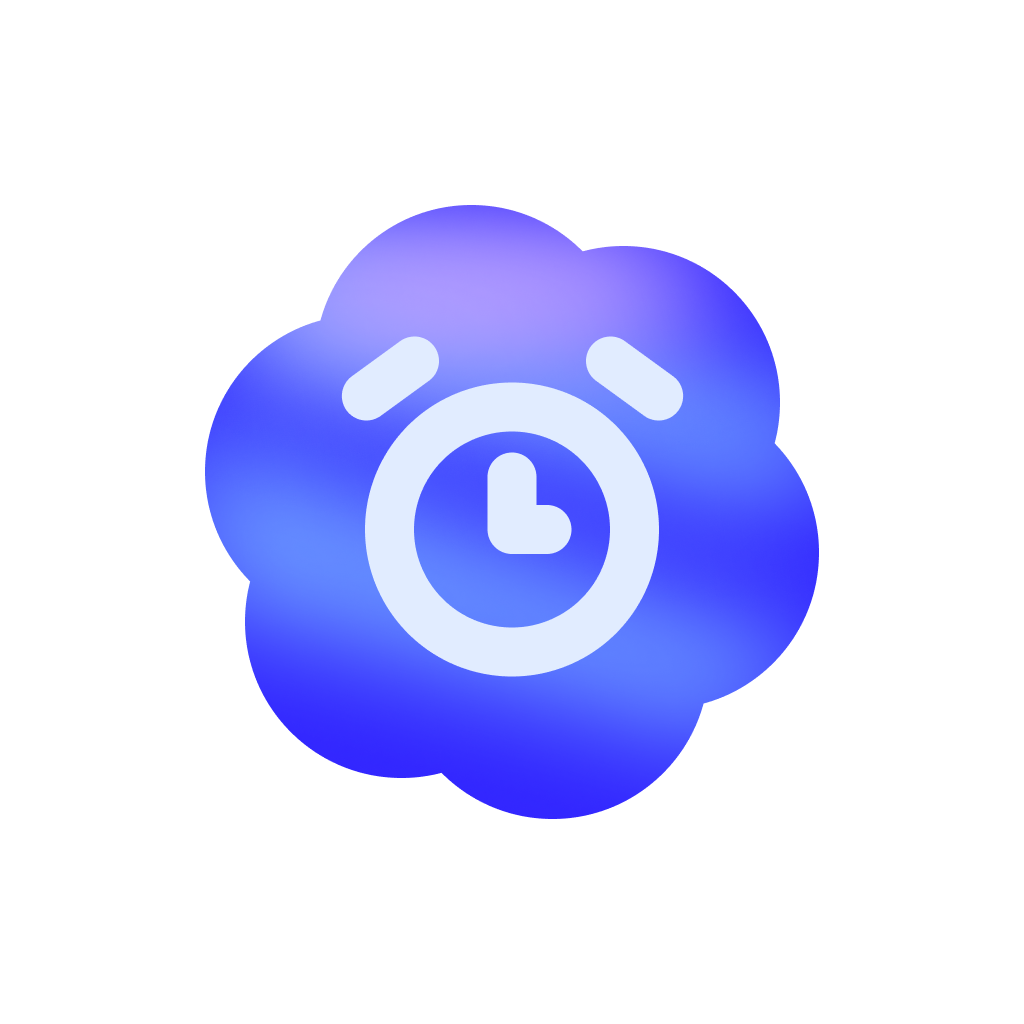
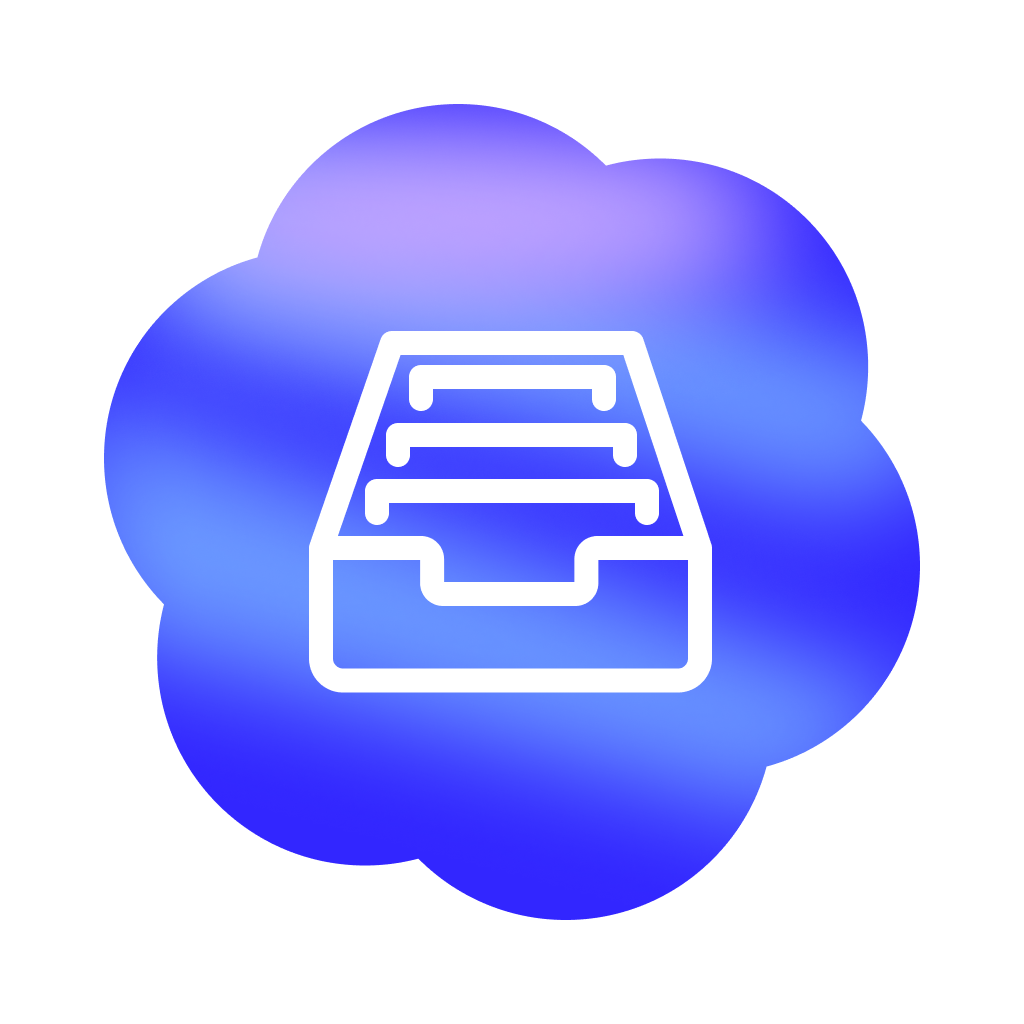
Rebrand app as Codex Keeper

diff --git a/Sources/CodexWake/Core/CodexStore.swift b/Sources/CodexWake/Core/CodexStore.swift
@@ -177,7 +177,7 @@ final class CodexStore: ThreadStore, @unchecked Sendable {
         guard source.path.hasPrefix(codexHome.standardizedFileURL.path + "/"),
               source.lastPathComponent.contains(".codex-rescue-backup-")
         else {
-            throw WakeError.commandFailed("Refusing to move non-Codex-Wake backup file")
+            throw WakeError.commandFailed("Refusing to move non-Codex Keeper backup file")
         }
 
         let sourceDirectory = source.deletingLastPathComponent()
@@ -200,7 +200,7 @@ final class CodexStore: ThreadStore, @unchecked Sendable {
         guard backupURL.path.hasPrefix(codexHome.standardizedFileURL.path + "/"),
               backupURL.lastPathComponent.contains(".codex-rescue-backup-")
         else {
-            throw WakeError.commandFailed("Refusing to restore non-Codex-Wake backup file.")
+            throw WakeError.commandFailed("Refusing to restore non-Codex Keeper backup file.")
         }
         guard fileManager.fileExists(atPath: backupURL.path) else {
             throw WakeError.commandFailed("Backup file no longer exists.")
@@ -576,7 +576,7 @@ final class CodexStore: ThreadStore, @unchecked Sendable {
     func restoreTrashedThread(_ thread: TrashedThread) throws {
         let manifestURL = URL(fileURLWithPath: thread.manifestPath).standardizedFileURL
         guard manifestURL.path.hasPrefix(threadTrash.standardizedFileURL.path + "/") else {
-            throw WakeError.commandFailed("Refusing to restore a chat outside Codex Wake trash.")
+            throw WakeError.commandFailed("Refusing to restore a chat outside Codex Keeper trash.")
         }
         let manifest = try JSONDecoder().decode(TrashedThreadManifest.self, from: Data(contentsOf: manifestURL))
         let originalURL = URL(fileURLWithPath: manifest.originalPath).standardizedFileURL
@@ -613,7 +613,7 @@ final class CodexStore: ThreadStore, @unchecked Sendable {
     func deleteTrashedThreadPermanently(_ thread: TrashedThread) throws {
         let manifestURL = URL(fileURLWithPath: thread.manifestPath).standardizedFileURL
         guard manifestURL.path.hasPrefix(threadTrash.standardizedFileURL.path + "/") else {
-            throw WakeError.commandFailed("Refusing to delete a file outside Codex Wake trash.")
+            throw WakeError.commandFailed("Refusing to delete a file outside Codex Keeper trash.")
         }
         try deleteTrashDirectory(containing: manifestURL)
     }
@@ -718,7 +718,7 @@ final class CodexStore: ThreadStore, @unchecked Sendable {
         if kind == .chatFile {
             return "Created before a chat change (legacy backup)"
         }
-        return "Created by Codex Wake"
+        return "Created by Codex Keeper"
     }
 
     private func isMainBackup(_ backup: BackupFile) -> Bool {
@@ -949,7 +949,7 @@ final class CodexStore: ThreadStore, @unchecked Sendable {
     private func deleteTrashDirectory(containing manifestURL: URL) throws {
         let directory = manifestURL.deletingLastPathComponent().standardizedFileURL
         guard directory.path.hasPrefix(threadTrash.standardizedFileURL.path + "/") else {
-            throw WakeError.commandFailed("Refusing to delete a file outside Codex Wake trash.")
+            throw WakeError.commandFailed("Refusing to delete a file outside Codex Keeper trash.")
         }
         try fileManager.removeItem(at: directory)
     }

diff --git a/Sources/CodexWake/UI/ProjectSidebarView.swift b/Sources/CodexWake/UI/ProjectSidebarView.swift
@@ -6,7 +6,7 @@ struct ProjectSidebarView: View {
     var body: some View {
         VStack(spacing: 0) {
             HStack(spacing: 8) {
-                Text("Codex Wake")
+                Text("Codex Keeper")
                     .font(.headline)
                 Spacer()
                 Button {
@@ -47,7 +47,7 @@ struct ProjectSidebarView: View {
                 .buttonStyle(.plain)
                 .padding(.horizontal, 8)
                 .padding(.vertical, 6)
-                .help("View Codex Wake backup files")
+                .help("View Codex Keeper backup files")
             }
 
             if model.trashItemCount > 0 {
@@ -66,7 +66,7 @@ struct ProjectSidebarView: View {
                 .buttonStyle(.plain)
                 .padding(.horizontal, 8)
                 .padding(.bottom, 6)
-                .help("View Codex Wake app trash")
+                .help("View Codex Keeper app trash")
             }
 
             List(selection: $model.selectedProjectID) {

diff --git a/Sources/CodexWake/UI/ThreadListView.swift b/Sources/CodexWake/UI/ThreadListView.swift
@@ -255,7 +255,7 @@ private struct ThreadSelectionToolbar: View {
             }
             Button("Cancel", role: .cancel) {}
         } message: {
-            Text("Codex Wake will refresh Codex metadata for selected chats missing from session_index.jsonl and create backups for each operation. \(model.selectedRepairSkippedCount) already available, archived, or missing chats will be skipped.")
+            Text("Codex Keeper will refresh Codex metadata for selected chats missing from session_index.jsonl and create backups for each operation. \(model.selectedRepairSkippedCount) already available, archived, or missing chats will be skipped.")
         }
         .alert("Move \(model.selectedThreadIDs.count) selected chats to Trash?", isPresented: $isTrashConfirmationPresented) {
             Button("Move to Trash", role: .destructive) {
@@ -263,7 +263,7 @@ private struct ThreadSelectionToolbar: View {
             }
             Button("Cancel", role: .cancel) {}
         } message: {
-            Text("Codex Wake will move existing chat JSONL files to macOS Trash, remove selected chats from Codex metadata, and create safety backups for local state files first. Missing chat files will be cleaned from metadata only.")
+            Text("Codex Keeper will move existing chat JSONL files to app trash, remove selected chats from Codex metadata, and create safety backups for local state files first. Missing chat files will be cleaned from metadata only.")
         }
     }
 }

diff --git a/Sources/CodexWake/App/CodexWakeApp.swift b/Sources/CodexWake/App/CodexWakeApp.swift
@@ -5,7 +5,7 @@ struct CodexWakeApp: App {
     @StateObject private var model = AppModel()
 
     var body: some Scene {
-        WindowGroup("Codex Wake") {
+        WindowGroup("Codex Keeper") {
             ContentView()
                 .environmentObject(model)
                 .frame(minWidth: 1080, minHeight: 720)

diff --git a/Sources/CodexWake/Core/DemoCodexStore.swift b/Sources/CodexWake/Core/DemoCodexStore.swift
@@ -171,7 +171,7 @@ final class DemoCodexStore: ThreadStore, @unchecked Sendable {
                 kind: kind,
                 originalExists: true,
                 chatTitle: kind == .chatFile ? "Fix disappearing sidebar threads" : nil,
-                reason: kind == .chatFile ? "Created before Trim from here" : "Created by Codex Wake"
+                reason: kind == .chatFile ? "Created before Trim from here" : "Created by Codex Keeper"
             )
         }
     }

diff --git a/Sources/CodexWake/UI/BackupDetailView.swift b/Sources/CodexWake/UI/BackupDetailView.swift
@@ -112,7 +112,7 @@ struct BackupDetailView: View {
             }
             Button("Cancel", role: .cancel) {}
         } message: {
-            Text("This moves the selected backup into Codex Wake's app trash. It will not be permanently deleted until you empty the app trash.")
+            Text("This moves the selected backup into Codex Keeper's app trash. It will not be permanently deleted until you empty the app trash.")
         }
     }
 

diff --git a/Sources/CodexWake/UI/BackupTrashDetailView.swift b/Sources/CodexWake/UI/BackupTrashDetailView.swift
@@ -45,7 +45,7 @@ struct BackupTrashDetailView: View {
             }
             Button("Cancel", role: .cancel) {}
         } message: {
-            Text("This permanently deletes the trashed chat file and its restore manifest from Codex Wake's app trash.")
+            Text("This permanently deletes the trashed chat file and its restore manifest from Codex Keeper's app trash.")
         }
     }
 

diff --git a/Sources/CodexWake/UI/BackupTrashListView.swift b/Sources/CodexWake/UI/BackupTrashListView.swift
@@ -67,7 +67,7 @@ struct BackupTrashListView: View {
             }
             Button("Cancel", role: .cancel) {}
         } message: {
-            Text("This permanently deletes \(model.threadTrash.count) trashed chats and \(model.backupTrash.count) backup files from Codex Wake's app trash. You will not be able to restore them after this action.")
+            Text("This permanently deletes \(model.threadTrash.count) trashed chats and \(model.backupTrash.count) backup files from Codex Keeper's app trash. You will not be able to restore them after this action.")
         }
     }
 }

diff --git a/README.md b/README.md
@@ -1,12 +1,14 @@
-# Codex Wake
+# Codex Keeper
 
-Codex app 26.609 shows older chats directly in the sidebar, so Codex Wake no longer treats age as a hidden-chat problem. The app is now focused on local chat maintenance: browsing, deep search, project moves, trimming, branching, trash, restore, backups, and metadata repair.
+Codex Keeper is the new name for Codex Wake. The GitHub repository is still named `codex-wake` during the transition so existing links, releases, and local checkouts continue to work.
+
+Codex app 26.609 shows older chats directly in the sidebar, so Codex Keeper no longer treats age as a hidden-chat problem. The app is now focused on local chat maintenance: browsing, deep search, project moves, trimming, branching, trash, restore, backups, and metadata repair.
 
 Another common pain: useful chats can end up attached to the wrong project, which makes them hard to find in the right workspace later.
 
-Codex Wake is an unofficial local macOS app for browsing, searching, repairing, moving, trashing, restoring, trimming, branching, and backing up Codex chats. It reads the local Codex data directory, shows chats grouped by project, supports metadata search and optional deep search through JSONL transcripts, can repair chats missing from `session_index.jsonl`, can move a chat from one known project to another, can move unwanted chats into its own restoreable app trash, and provides a local backup manager.
+Codex Keeper is an unofficial local macOS app for browsing, searching, repairing, moving, trashing, restoring, trimming, branching, and backing up Codex chats. It reads the local Codex data directory, shows chats grouped by project, supports metadata search and optional deep search through JSONL transcripts, can repair chats missing from `session_index.jsonl`, can move a chat from one known project to another, can move unwanted chats into its own restoreable app trash, and provides a local backup manager.
 
-![Codex Wake screenshot](assets/screenshot.png)
+![Codex Keeper screenshot](assets/screenshot.png)
 
 ## Download
 
@@ -18,30 +20,32 @@ See [CHANGELOG.md](CHANGELOG.md) for version history.
 
 To install it:
 
-1. Download the latest `Codex-Wake-*-macOS.zip`.
+1. Download the latest `Codex-Keeper-*-macOS.zip`.
 2. Unzip the archive.
-3. Move `Codex Wake.app` to `/Applications`.
+3. Move `Codex Keeper.app` to `/Applications`.
 4. Open it.
 
-## Latest In 0.1.6
+## Latest In 0.2.0
 
+- Renamed the app from **Codex Wake** to **Codex Keeper**.
+- Added the new Codex Keeper icon.
+- Kept the repository name, bundle id, executable name, and legacy `.codex-wake-trash` storage path for compatibility.
 - Updated chat availability for Codex app 26.609, which now shows older chats in the sidebar.
 - Old chats are now marked **Available** instead of **Hidden** when their metadata and JSONL file are present.
-- **Wake** is demoted to **Repair Index** and is only shown for chats missing from `session_index.jsonl`.
 - The main workflow now emphasizes deep search, trim, branch, move, trash, restore, and backup maintenance.
 
 ## Demo Mode
 
-Codex Wake includes a screenshot-safe demo mode with synthetic projects and chats. It does not read or write `~/.codex`.
+Codex Keeper includes a screenshot-safe demo mode with synthetic projects and chats. It does not read or write `~/.codex`.
 
 ```sh
-open -n "dist/Codex Wake.app" --args --demo
+open -n "dist/Codex Keeper.app" --args --demo
 ```
 
 You can also launch the app with:
 
 ```sh
-CODEX_WAKE_DEMO=1 "dist/Codex Wake.app/Contents/MacOS/CodexWake"
+CODEX_WAKE_DEMO=1 "dist/Codex Keeper.app/Contents/MacOS/CodexWake"
 ```
 
 ## Features
@@ -53,20 +57,20 @@ CODEX_WAKE_DEMO=1 "dist/Codex Wake.app/Contents/MacOS/CodexWake"
 - Repair index metadata for chats missing from `session_index.jsonl`.
 - Repair multiple selected chats that need index metadata.
 - Move a thread between known projects by updating its local project metadata.
-- Move a thread to Codex Wake's app trash and remove it from local Codex metadata.
-- Restore a trashed thread from Codex Wake's app trash.
+- Move a thread to Codex Keeper's app trash and remove it from local Codex metadata.
+- Restore a trashed thread from Codex Keeper's app trash.
 - Permanently delete trashed threads after confirmation.
 - Trim a thread from a selected user message, with a backup created first.
 - Create a branch thread from a selected turn without changing the original.
 - Create backups before every metadata-changing operation.
-- View Codex Wake backup files in the **Backups** section.
+- View Codex Keeper backup files in the **Backups** section.
 - Restore chat file backups from the **Backups** section.
-- Move backup files to Codex Wake's app trash before permanent cleanup.
+- Move backup files to Codex Keeper's app trash before permanent cleanup.
 - Reveal a thread JSONL file in Finder or copy its path.
 
 ## What It Reads
 
-Codex Wake reads local files from:
+Codex Keeper reads local files from:
 
 ```text
 ~/.codex/state_5.sqlite
@@ -80,7 +84,7 @@ The app does not send chat content anywhere. There is no server component, telem
 
 **Repair Index** is a legacy recovery action for chats that exist in the Codex state database and on disk, but are missing from `session_index.jsonl`. This can happen after manual cleanup, format changes, or failed local maintenance.
 
-When you repair a selected thread, Codex Wake creates timestamped backups and then refreshes the metadata Codex uses for listing:
+When you repair a selected thread, Codex Keeper creates timestamped backups and then refreshes the metadata Codex uses for listing:
 
 - `threads.thread_source = 'user'`
 - `threads.updated_at` and `threads.updated_at_ms`
@@ -99,22 +103,22 @@ Already available chats, archived chats, and chats with missing JSONL files are 
 
 ## Move Operation
 
-When you move a selected thread, Codex Wake creates timestamped backups and updates the project path metadata Codex uses for grouping:
+When you move a selected thread, Codex Keeper creates timestamped backups and updates the project path metadata Codex uses for grouping:
 
 - `threads.cwd`
 - the first `session_meta` line in the thread JSONL file: `payload.cwd`
 
-After the move, Codex Wake reloads the full thread list so project counts and filters reflect the new location.
+After the move, Codex Keeper reloads the full thread list so project counts and filters reflect the new location.
 
 ## Move To Trash
 
-When you move a selected thread to Trash, Codex Wake creates timestamped backups, writes a restore manifest, and then removes the chat from the local Codex metadata used for listing:
+When you move a selected thread to Trash, Codex Keeper creates timestamped backups, writes a restore manifest, and then removes the chat from the local Codex metadata used for listing:
 
 - `threads` row in `state_5.sqlite`
 - matching `session_index.jsonl` entry
-- the thread JSONL file, moved to `~/.codex/.codex-wake-trash/threads/` when it still exists
+- the thread JSONL file, moved to the legacy `~/.codex/.codex-wake-trash/threads/` path when it still exists
 
-If the chat JSONL file is already missing, Codex Wake cleans the metadata only. This is useful for removing projects that still appear in Codex Wake after their local chat files were deleted elsewhere.
+If the chat JSONL file is already missing, Codex Keeper cleans the metadata only. This is useful for removing projects that still appear in Codex Keeper after their local chat files were deleted elsewhere.
 
 Each trashed chat gets a `manifest.json` file with the original path, thread id, project path, saved SQLite row, and session index entry needed for restore.
 
@@ -124,17 +128,17 @@ Trashed chats appear in the **Trash** section. From there you can restore a chat
 
 **Trim from here** creates a backup of the selected chat JSONL file, then removes the selected user message and everything after it from the local chat file. The first visible user message cannot be trimmed because Codex stores it as chat preview metadata.
 
-**Branch from here** creates a new chat using the conversation history before the selected Codex turn. The original chat is not changed. Codex Wake creates safety backups for the local state files before registering the new branch.
+**Branch from here** creates a new chat using the conversation history before the selected Codex turn. The original chat is not changed. Codex Keeper creates safety backups for the local state files before registering the new branch.
 
 ## Backups And Trash
 
-Codex Wake creates timestamped backup files before changing Codex metadata. The **Backups** section lists those backup files with their original path, size, kind, and creation time.
+Codex Keeper creates timestamped backup files before changing Codex metadata. The **Backups** section lists those backup files with their original path, size, kind, and creation time.
 
 Chat file backups can be restored from the **Backups** section. Restoring replaces the current chat file with the selected restore point. The selected restore point stays in Backups.
 
-Backup files and chats can be moved to Codex Wake's app trash. This does not immediately delete them from disk. When the app trash contains files, a **Trash** section appears in the sidebar where you can inspect them.
+Backup files and chats can be moved to Codex Keeper's app trash. This does not immediately delete them from disk. The on-disk folder remains `~/.codex/.codex-wake-trash` for compatibility with existing Codex Wake backups. When the app trash contains files, a **Trash** section appears in the sidebar where you can inspect them.
 
-The **Empty Trash** action permanently deletes files from Codex Wake's app trash and asks for confirmation first. After emptying trash, those backup files and trashed chats cannot be restored from inside Codex Wake.
+The **Empty Trash** action permanently deletes files from Codex Keeper's app trash and asks for confirmation first. After emptying trash, those backup files and trashed chats cannot be restored from inside Codex Keeper.
 
 ## Build
 
@@ -158,12 +162,12 @@ Build a macOS `.app` bundle:
 The app bundle is written to:
 
 ```text
-dist/Codex Wake.app
+dist/Codex Keeper.app
 ```
 
 ## Safety Notes
 
-Codex Wake edits local Codex metadata when you press **Repair Index**, **Move**, **Move to Trash**, **Trim from here**, **Branch from here**, or **Restore Chat**. Keep Codex Desktop closed while changing chats if you want to avoid concurrent writes.
+Codex Keeper edits local Codex metadata when you press **Repair Index**, **Move**, **Move to Trash**, **Trim from here**, **Branch from here**, or **Restore Chat**. Keep Codex Desktop closed while changing chats if you want to avoid concurrent writes.
 
 If something looks wrong after a repair or move operation, restore the backup files from the **Backups** section. If you moved a chat to Trash by mistake, restore it from the **Trash** section. Do not empty app trash until you are sure you no longer need those files.
 
@@ -173,7 +177,7 @@ Early utility. Tested on local Codex Desktop data, but the Codex storage format 
 
 ## Disclaimer
 
-Codex Wake is unofficial and is not affiliated with OpenAI.
+Codex Keeper is unofficial and is not affiliated with OpenAI.
 
 ## License
 

diff --git a/CHANGELOG.md b/CHANGELOG.md
@@ -1,6 +1,14 @@
 # Changelog
 
-All notable changes to Codex Wake are documented here.
+All notable changes to Codex Keeper, formerly Codex Wake, are documented here.
+
+## 0.2.0 - 2026-06-12
+
+- Renamed the app from **Codex Wake** to **Codex Keeper**.
+- Added the new Codex Keeper app icon.
+- Updated the app bundle name, sidebar title, window title, README, release copy, and user-facing maintenance messages.
+- Kept the repository name `codex-wake`, bundle identifier `app.codexwake.CodexWake`, executable name `CodexWake`, and legacy `.codex-wake-trash` storage path for compatibility.
+- Positioned the app as a local Codex chat maintenance tool while preserving existing backup, trash, repair, trim, branch, and restore workflows.
 
 ## 0.1.6 - 2026-06-12
 